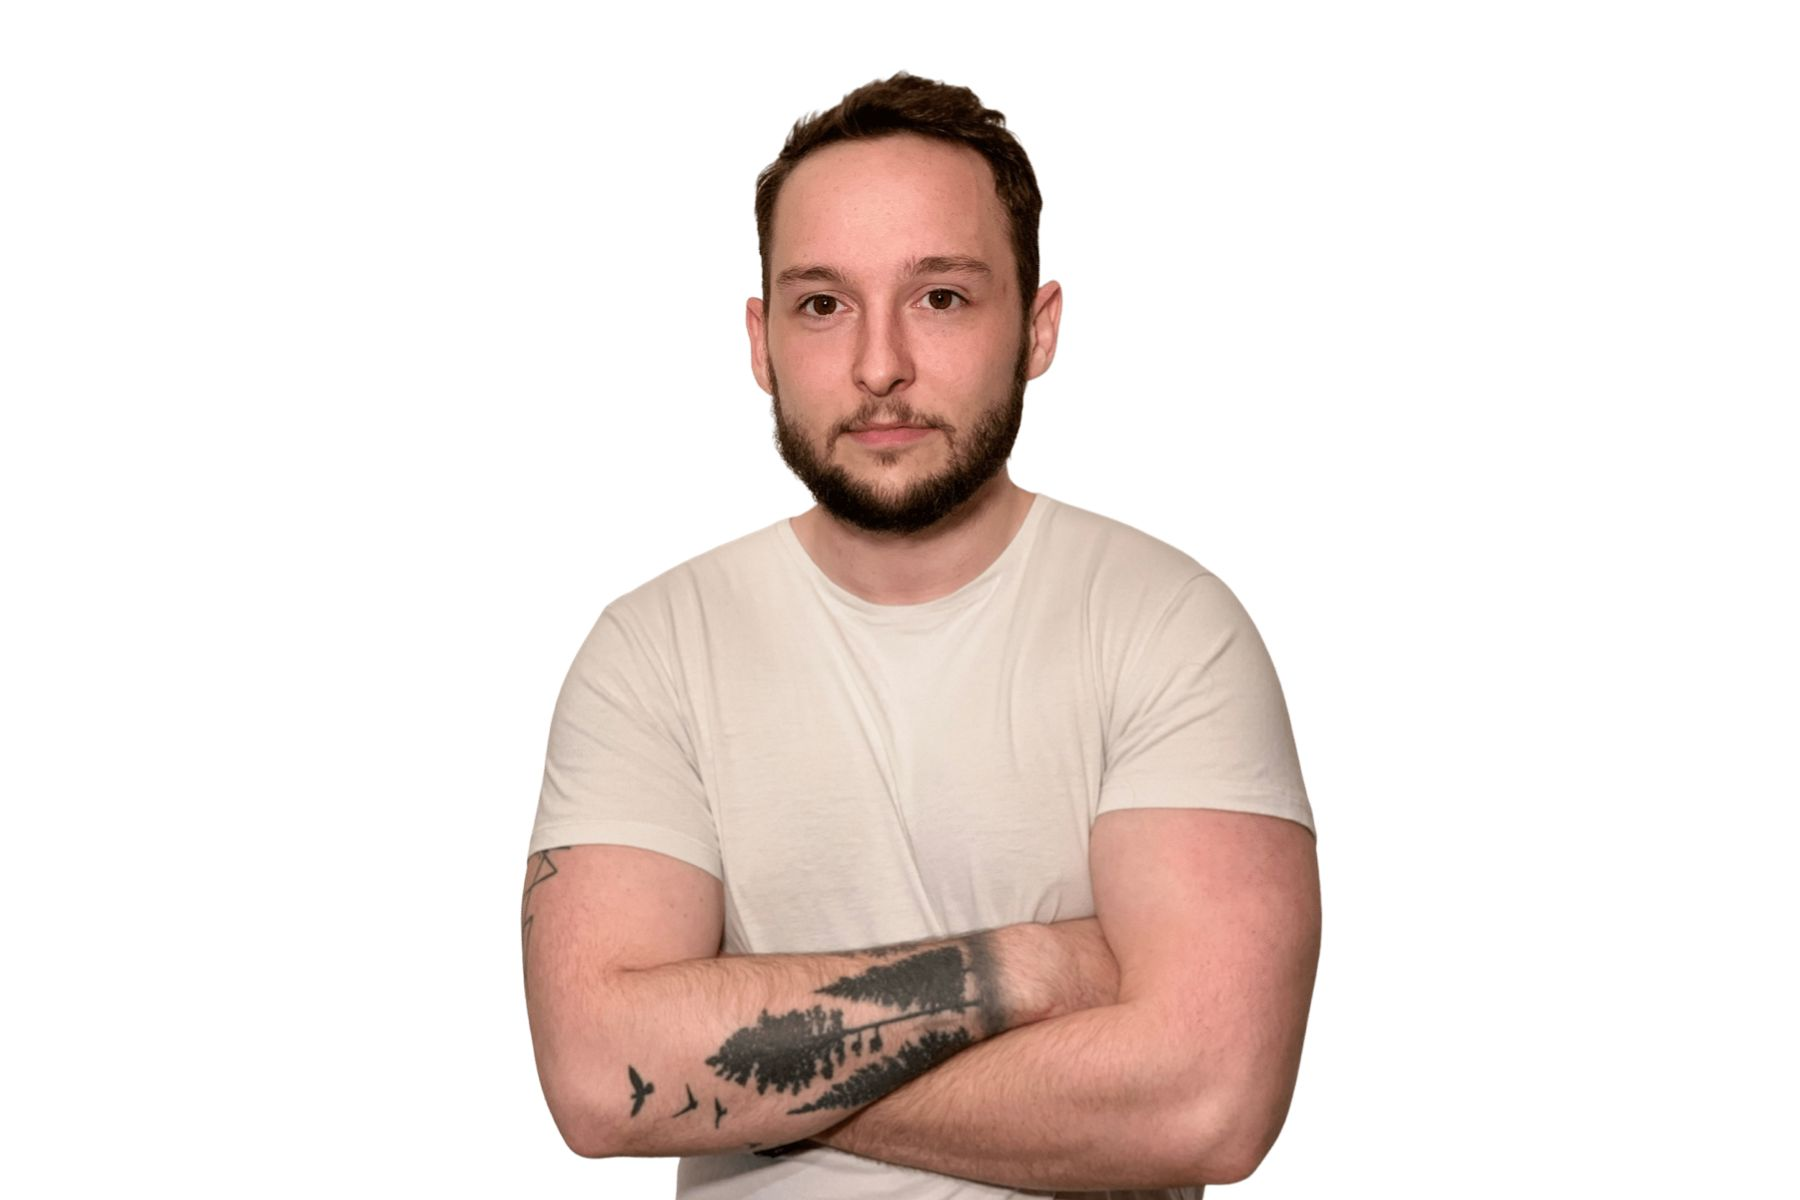
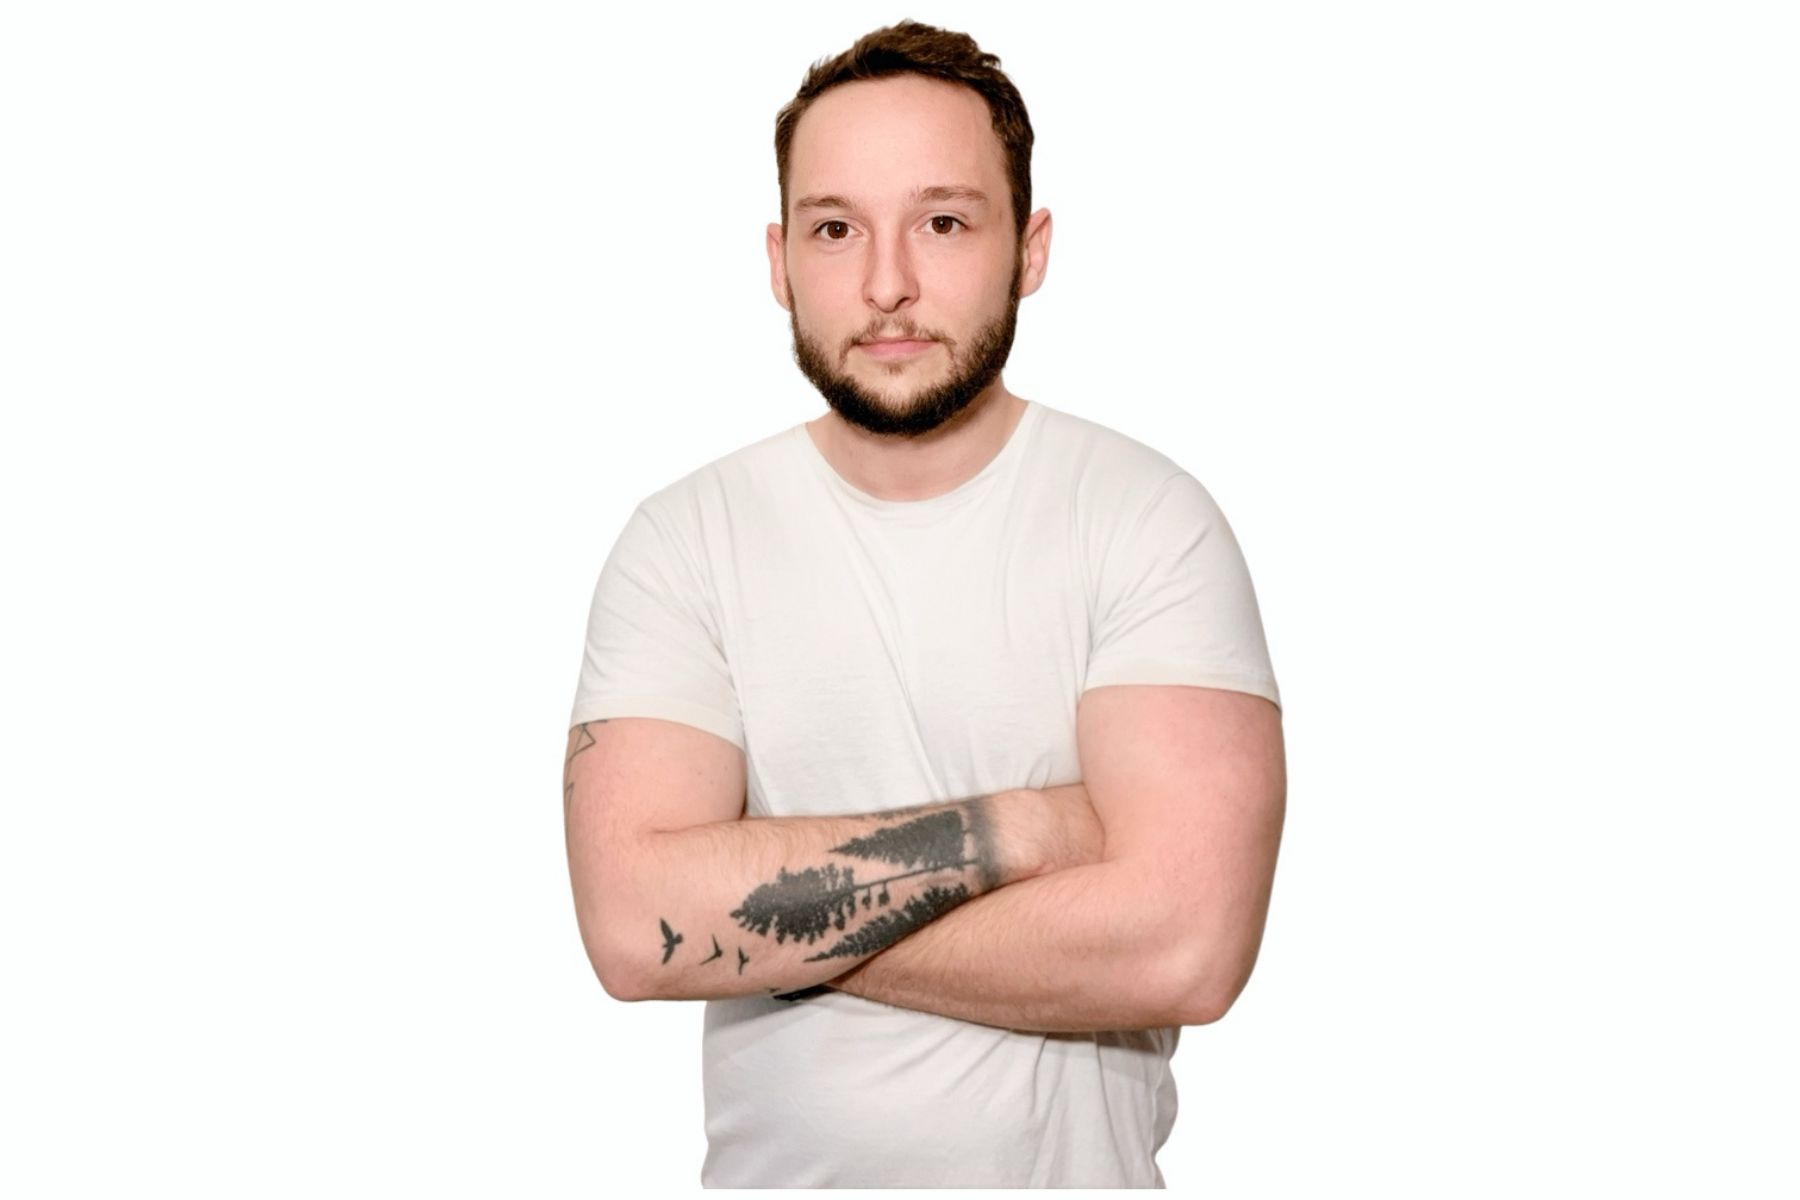
Home page picture lightend up

Changed region(s): [[0.28, 0.0, 0.7467, 1.0]]

diff --git a/src/Home.js b/src/Home.js
@@ -23,7 +23,7 @@ const Home = () => {
                         <div className="pos-absolute orange-square d-flex justify-center align-center"></div>
                         <div className="white-circle d-flex justify-center align-center">
                             <div className="img-circle overflow-hidden d-flex justify-center">
-                                <img src="./imgs/selfie.jpg" alt="" />
+                                <img src="./imgs/selfie.jpg" alt="A picture of the site creator - Adam Slater" />
                             </div> 
                         </div>
                     </div>

diff --git a/src/Contact.js b/src/Contact.js
@@ -81,7 +81,7 @@ const Contact = () => {
                         onChange={(e) => setMessage(e.target.value)}
                         ></textarea>
                     </div>
-                    <button className='hire-me d-inline-block mt-3 mb-3 ml-1 mr-1 p-2 pl-4 pr-4 br-xs'>Submit</button>
+                    <button className='hire-me d-inline-block mt-2 mb-3 ml-1 mr-1 p-2 pl-4 pr-4 br-xs'>Submit</button>
                 </form>
                 <div>
                     <ContactTile contactTileHref={contactTileHref[0]} contactTileText={contactTileText[0]} contactTileImg={contactTileImg[0]} />

diff --git a/public/index.html b/public/index.html
@@ -2,7 +2,7 @@
 <html lang="en">
   <head>
     <meta charset="utf-8" />
-    <meta name="viewport" content="width=device-width, initial-scale=1" />
+    <meta name="viewport" content="width=device-width, initial-scale=1, maximum-scale=1"/>
     <link rel="preconnect" href="https://fonts.googleapis.com">
     <link rel="preconnect" href="https://fonts.gstatic.com" crossorigin>
     <link href="https://fonts.googleapis.com/css2?family=Lato:ital,wght@0,100;0,300;0,400;0,700;0,900;1,100;1,300;1,400;1,700;1,900&display=swap" rel="stylesheet">

diff --git a/sass/index.scss b/sass/index.scss
@@ -107,10 +107,11 @@
 .img-circle {
     width: 360px;
     height: 360px;
-    background: rgb(233, 232, 232);
+    background: white;
     border-radius: 100%;
     img {
-        width: 170%;
+        position: relative;
+        transform: translateY(30px);
     }
 }
 
@@ -298,6 +299,7 @@ form {
     background-color: black;
     border: 0;
     border-bottom: 1px solid black;
+    font-size: 16px;
 }
 
 .submission-overlay {

diff --git a/src/index.css b/src/index.css
@@ -959,11 +959,12 @@ body {
 .img-circle {
   width: 360px;
   height: 360px;
-  background: rgb(233, 232, 232);
+  background: white;
   border-radius: 100%;
 }
 .img-circle img {
-  width: 170%;
+  position: relative;
+  transform: translateY(30px);
 }
 
 /* ABOUT STYLES */
@@ -1138,6 +1139,7 @@ form {
   background-color: black;
   border: 0;
   border-bottom: 1px solid black;
+  font-size: 16px;
 }
 
 .submission-overlay {

diff --git a/src/firebase.js b/src/firebase.js
@@ -1,6 +1,6 @@
 import { initializeApp } from 'firebase/app';
 import {
-  getFirestore , collection, getDocs, addDoc
+  getFirestore , collection, addDoc
 } from 'firebase/firestore'
 
 const firebaseConfig = {

diff --git a/src/Card.js b/src/Card.js
@@ -1,5 +1,3 @@
-
-
 const Card = (props) => {
     
     return ( 

diff --git a/src/CardTwo.js b/src/CardTwo.js
@@ -1,5 +1,3 @@
-
-
 const Card = (props) => {
     
     return ( 
